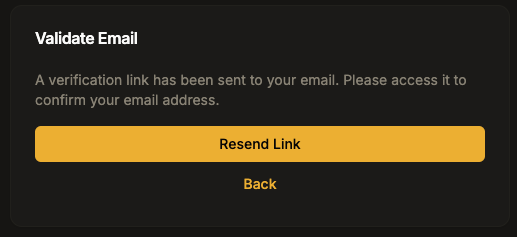
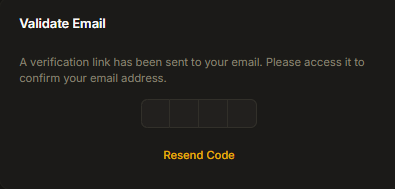
docs: update

diff --git a/i18n/en/docusaurus-plugin-content-docs/current/how-to/how-to-register-on-gita.md b/i18n/en/docusaurus-plugin-content-docs/current/how-to/how-to-register-on-gita.md
@@ -1,21 +1,24 @@
 ---
 sidebar_position: 2
 ---
-# How to Register On GITA?
+# How to register on GITA?
 
 1. Access the [GITA registration page](https://app.gita.cloud/register)
     > ![image](/images/image001.png)
     >
-    > ***Image 01: New account screen on Gita***
-2. Fill in the fields shown in the image above
-3. Click on the **Sign Up** button, as shown below
+    > ***Image 01: New account screen on GITA***
+2. Fill in the fields shown in the image above.
+3. Click the **Sign Up** button, as shown below
     > ![image](/images/image002.png)
     >
-    > ***Image 02: Registration button***
-4. When clicking the button, an account validation link will be sent to the registered address. The user's screen will be redirected to the one shown in figure XXX.
-5. On this screen, the user can request the system to resend the validation email by clicking the **Resend Link** button or return to the login screen with the **Back** button. As shown below
+    > ***Image 02: Sign Up button***
+4. When the button is pressed, a verification code will be sent to the registered email address. The user will be redirected to the verification screen.
+5. In the informed email, the user must retrieve the code sent by "**noreply@gita.cloud**". To validate the account, use the generated code that was sent to the registered address to fill in the email verification field.
     > ![image](/images/image003.png)
     >
-    > ***Image 03: Email validation screen***
-6. In the provided email, the user must access the link sent by "**noreply@gita.cloud**" to validate the account.
-7. When clicking the link, they will be redirected to the GITA initial panel, indicating that the operation was successful.
+    > ***Image 03: Email verification screen***
+6. On this screen, the user can also request the system to resend the verification code by pressing the **Resend Code** button, as shown below.
+    > ![image](/images/image251.png)
+    >
+    > ***Image 04: Email verification screen - Resend Code button***
+7. If the email verification field is filled in correctly, the user will be redirected to GITA's initial dashboard, indicating that the operation was successfully completed.

diff --git a/docs/how-to/how-to-register-on-gita.md b/docs/how-to/how-to-register-on-gita.md
@@ -7,15 +7,19 @@ sidebar_position: 2
     > ![image](/images/image001.png)
     >
     > ***Imagem 01: Tela de nova conta no Gita***
-2. Preencha os campos exibidos na imagem acima
+2. Preencha os campos exibidos na imagem acima.
 3. Clique no botão **Sign Up**, conforme mostrado abaixoœ∑
     > ![image](/images/image002.png)
     >
     > ***Imagem 02: Botão de cadastro***
-4. Ao acionar o botão, um link de validação da conta será enviado para o endereço cadastrado. A tela do usuário será redirecionada para a mostrada na figura XXX.
-5. Nesta tela, o usuário poderá solicitar que o sistema reenvie o e-mail de validação ao acionar o botão **Resend Link** ou retornar à tela de login com o botão **Back**. Conforme mostrado abaixo
+4. Ao acionar o botão, um código de verificação da conta será enviado para o endereço cadastrado. O usuário será redirecionado para a tela de validação.
+5. No e-mail informado, o usuário deverá acessar o código enviado por "**noreply@gita.cloud**". Para validar a conta, utilize o código gerado que foi enviado ao endereço cadastrado para preencher o campo de validação do e-mail.
     > ![image](/images/image003.png)
     >
     > ***Imagem 03: Tela de validação do e-mail***
-6. No e-mail informado, o usuário deverá acessar o link enviado por "**noreply@gita.cloud**" Para validar a conta.
-7. Ao clicar no link, será redirecionado para o painel inicial do GITA, indicando que a operação foi realizada com sucesso.
+6. Nesta tela, o usuário também poderá solicitar que o sistema reenvie o código de verificação ao acionar o botão **Resend Code**, conforme mostrado abaixo.
+    > ![image](/images/image251.png)
+    >
+    > ***Imagem 04: Tela de validação do e-mail - Botão Resend Code***
+7. Se o campo de validação do email for preenchido corretamente, o usuário será redirecionado para o painel inicial do GITA, indicando que a operação foi concluída com sucesso.
+

diff --git a/docs/how-to/how-to-configure-two-factor-authentication-for-your-organization.md b/docs/how-to/how-to-configure-two-factor-authentication-for-your-organization.md
@@ -38,6 +38,6 @@ A autenticação de dois fatores (2FA) para a organização é um recurso de seg
     > ***Imagem 06: Visualização - Enable Email 2FA Habilitado***
 
 6. Após o último passo, será enviada uma mensagem para o respectivo email cadastrado como o usuário do Gita e então a autenticação de dois fatores para a sua organização terá sido concluída. É importante lembrar que para que possa continuar acessando a organização, o usuário também deve habilitar o 2FA na sua conta pessoal se ainda não estiver habilitado.
-    > ![image](/images/image247.png)
+    > ![image](/images/image250.png)
     >
     > ***Imagem 07: Visualização - Exemplo de Conclusão***

diff --git a/i18n/en/docusaurus-plugin-content-docs/current/how-to/how-to-configure-two-factor-authentication-for-your-organization.md b/i18n/en/docusaurus-plugin-content-docs/current/how-to/how-to-configure-two-factor-authentication-for-your-organization.md
@@ -38,6 +38,6 @@ Two-factor authentication (2FA) for the organization is a security feature that 
     > ***Image 06: View - Enable Email 2FA Enabled***
 
 6. After the last step, a message will be sent to the respective email registered as the Gita user, and then two-factor authentication for your organization will be completed. It is important to remember that to continue accessing the organization, the user must also enable 2FA on their personal account if it is not already enabled.
-    > ![image](/images/image247.png)
+    > ![image](/images/image250.png)
     >
     > ***Image 07: View - Completion Example***
